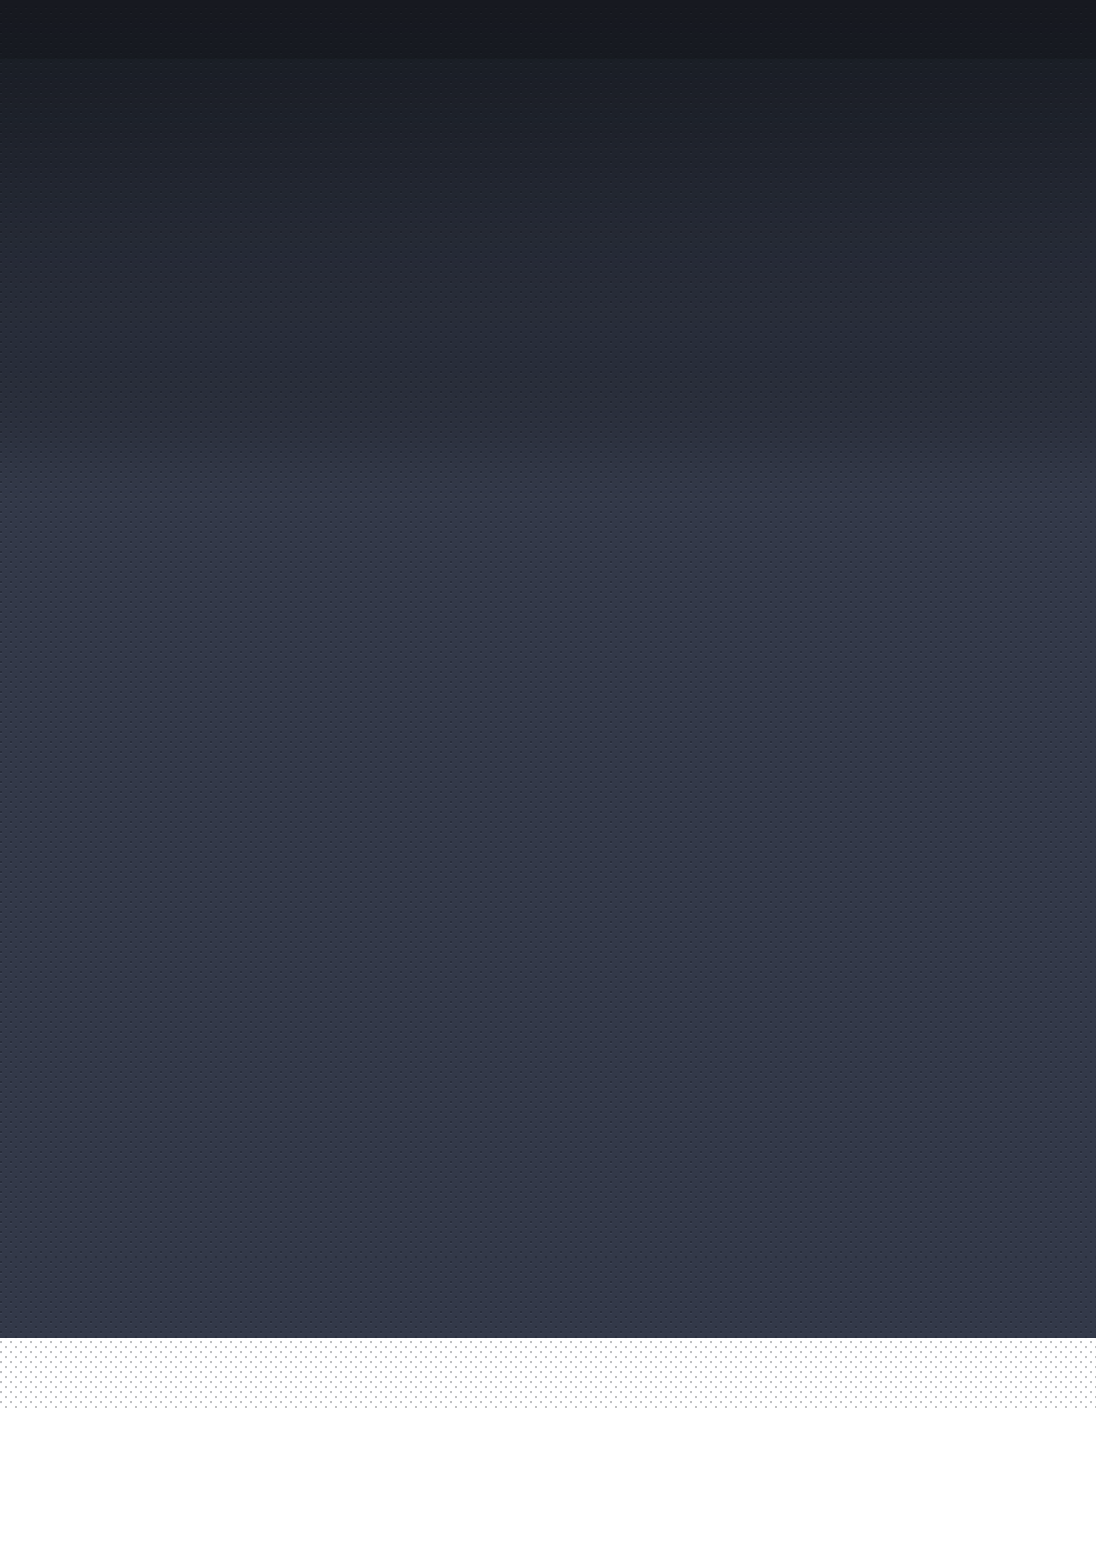
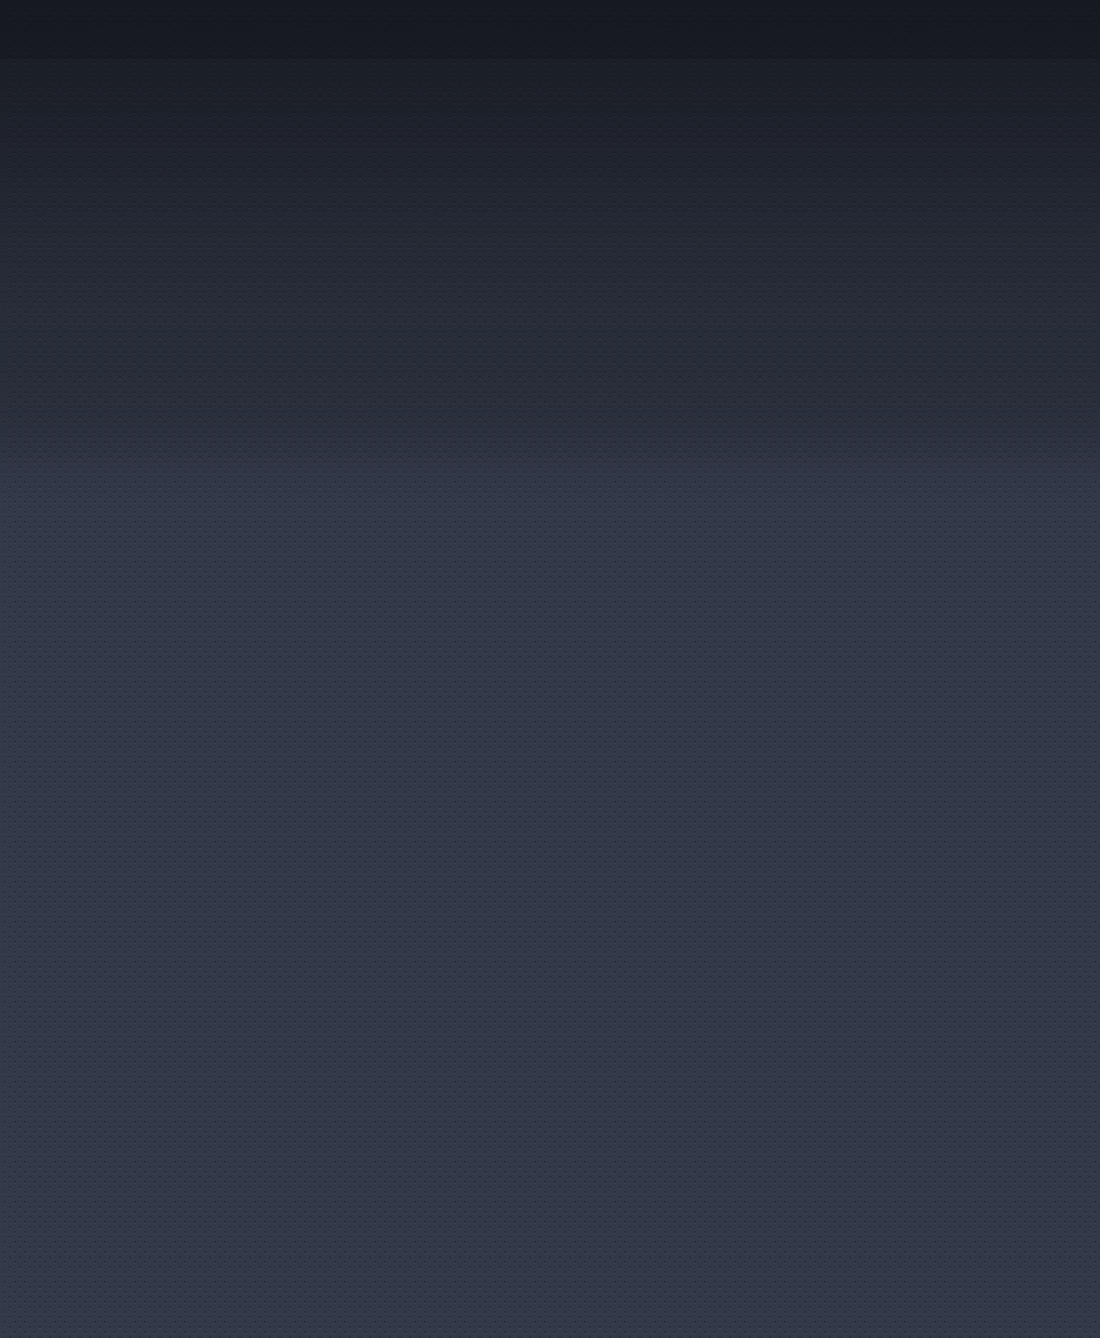
Fix Layout, Add Hover

Changed region(s): [[0.0, 0.858, 1.0, 1.0]]

diff --git a/css/about.css b/css/about.css
@@ -70,6 +70,9 @@ h2{
     display: inline-block;
     color: rgb(106, 135, 163);
 }
+.header-left a:hover{
+    color: #ffffff;
+}
 .span-top{
     margin: 0 4px;
 }
@@ -88,11 +91,11 @@ h2{
 }
 .social-network{
     float: left;
-    margin-right: 11px;
-    margin-top: 3px;
+    margin-right: 12px;
+    margin-top: 5px;
 }
 .list-social-network a{
-    margin-left: 5px;
+    margin-left: 6px;
 }
 .list-social-network li{
     display: inline-block;
@@ -113,7 +116,7 @@ h2{
     border: 1px solid #1f2223;
     color: #38444f;
     margin: 11px 0 11px;
-    padding: 0px 0px 5px 6px;
+    padding: 2px 0px 5px 6px;
 }
 input[type="search"]{
     font-size: 11px;
@@ -125,11 +128,17 @@ input::placeholder{
 .search-button{
     width: 25px;
     height: 24px;
-    background-image: url(/image/icon/Icon-Top/search-icon.png);
+    background: url(/image/icon/Icon-Top/search-icon.png) no-repeat;
     border: 0;
     position: relative;
-    top: 6px;
-    right: 35px;
+    top: 11px;
+    right: 32px;
+    cursor: pointer;
+}
+@media screen and (max-width: 768px){
+    .container{
+        width: 80%;
+    }
 }
 /* End Header Top */
 .header-navigation:before,
@@ -143,31 +152,62 @@ input::placeholder{
 .header-navigation{
     margin-bottom: 23px;
 }
-.logo{
-    float: left;
-    position: relative;
-    display: block;
-    text-indent: -99999px;
-    width: 272px;
-    height: 60px;
-    background: url(/image/Logo.png) no-repeat;
-    overflow: hidden;
-    margin-left: -3px;
+
+@media all and (min-width: 1000px){
+    .logo{
+        float: left;
+        position: relative;
+        display: block;
+        text-indent: -99999px;
+        width: 272px;
+        height: 60px;
+        background: url(/image/Logo.png) no-repeat;
+        overflow: hidden;
+        margin-left: -3px;
+    }
+    #menu{
+        float: right;
+    }
+    .menu-list li{ 
+        display: inline-block;
+        margin-left: 5px;
+    }
+    .menu-list a{
+        display: inline-block;
+        color: #707584;
+        font-size: 17px;
+        font-weight: bolder;
+        padding: 6px 14px 9px 13px;
+        letter-spacing: -1px;
+    }
 }
-#menu{
-    float: right;
-}
-.menu-list li{ 
-    display: inline-block;
-    margin-left: 5px;
-}
-.menu-list a{
-    display: inline-block;
-    color: #707584;
-    font-size: 17px;
-    font-weight: bolder;
-    padding: 6px 14px 9px 13px;
-    letter-spacing: -1px;
+@media screen and (max-width: 768px){
+    .logo{
+        float: none;
+        position: relative;
+        display: block;
+        text-indent: -99999px;
+        width: 272px;
+        height: 60px;
+        background: url(/image/Logo.png) no-repeat;
+        overflow: hidden;
+        margin: 0 auto;
+    }
+    #menu{
+        float: none;
+        text-align: center;
+    }
+    .menu-list li{  
+        display: inline-block;
+    }
+    .menu-list a{
+        display: inline-block;
+        color: #707584;
+        font-size: 17px;
+        font-weight: bolder;
+        padding: 6px 14px 9px 13px;
+        letter-spacing: -1px;
+    }
 }
 .menu-list a:hover{
     background: #161920b1;
@@ -194,10 +234,19 @@ input::placeholder{
 .main-inner{
     background: #ffffff;
 }
-.main-content{
-    width: 70.8%;
-    float: left;
-    padding: 0 21px 0 20px;
+
+@media all and (min-width: 1000px){
+    .main-content{
+        width: 70.8%;
+        float: left;
+        padding: 0 21px 0 20px;
+    }
+}
+@media screen and (max-width: 768px){
+    .main-content{
+        width: 100%;
+        padding: 0 21px 0 20px;
+    }
 }
 .title-heading{
     color: #4d5467;
@@ -228,10 +277,20 @@ input::placeholder{
 }
 /* End Main Contemt */
 /* Side-Bar */
-.side-bar{
-    width: 29.2%;
-    float: right;
-    background: #eef0f5;
+
+@media all and (min-width: 1000px){
+    .side-bar{
+        width: 29.2%;
+        float: right;
+        background: #eef0f5;
+    }
+}
+@media screen and (max-width: 768px){
+    .side-bar{
+        width: 100%;
+        float: none;
+        background: #eef0f5;
+    }
 }
 .side-bar h3{
     font-size: 20px;
@@ -275,18 +334,36 @@ input::placeholder{
     width: 100%;
     margin-bottom: 2px;
 }
-.navigation-list li a {
-    display: block;
-    color: #747c93;
-    text-decoration: none;
-    padding: 14px 0px 14px 13px;
-    background:#dce0e9 url(/image/icon/side/icon_arrow.png) no-repeat 225px 50%;
+
+@media all and (min-width: 1000px){
+    .navigation-list li a {
+        display: block;
+        color: #747c93;
+        text-decoration: none;
+        padding: 14px 0px 14px 13px;
+        background:#dce0e9 url(/image/icon/side/icon_arrow.png) no-repeat 225px 50%;
+    }
+    .navigation-list li a:hover{
+        color: #444d68;
+        background: #d0d4de url(/image/icon/side/icon_arrow_active.png) no-repeat 225px 50%;
+        width: 100%;
+    }
 }
-.navigation-list li a:hover{
-    color: #444d68;
-    background: #d0d4de url(/image/icon/side/icon_arrow_active.png) no-repeat 225px 50%;
-    width: 100%;
+@media screen and (max-width: 768px){
+    .navigation-list li a {
+        display: block;
+        color: #747c93;
+        text-decoration: none;
+        padding: 14px 0px 14px 13px;
+        background:#dce0e9 url(/image/icon/side/icon_arrow.png) no-repeat 680px 50%;
+    }
+    .navigation-list li a:hover{
+        color: #444d68;
+        background: #d0d4de url(/image/icon/side/icon_arrow_active.png) no-repeat 680px 50%;
+        width: 100%;
+    }
 }
+
 /* End Box Navigation */
 
 .categories-top{
@@ -301,9 +378,11 @@ input::placeholder{
 .categories-list li{
     width: 100%;
     padding-bottom: 10px;
+    display: inline-block;
 }
 .categories-list li a{
     color:#747c93;
+    display: inline-block;
 }
 .categories-list li a:hover{
     color: #97a5d1;
@@ -327,9 +406,11 @@ input::placeholder{
 .blog-list li{
     width: 100%;
     padding-bottom: 10px;
+    display: inline-block;
 }
 .blog-list li a{
     color:#747c93;
+    display: inline-block;
 }
 .blog-list li a:hover{
     color: #97a5d1;
@@ -477,6 +558,7 @@ input::placeholder{
     position: relative;
     top: 6px;
     left: 59px;
+    cursor: pointer;
 }
 .square{
     width: 0;
@@ -500,6 +582,9 @@ input::placeholder{
 }
 .update-top{
     padding-bottom: 12px;
+}
+.update-top a:hover{
+    text-decoration: underline solid #b8e2f6;
 }
 .dellustations,
 .twitter-contact a{
@@ -526,16 +611,30 @@ input::placeholder{
 .footer-copyright:after{
     clear: both;
 }
-.address{
-    float: left;
-    padding-top: 22px;
+@media all and (min-width: 1000px){
+    .address{
+        float: left;
+        padding-top: 22px;
+    }
+    .footer-bottom-right{
+        float: right;
+        padding-top: 22px;
+    }
+}
+@media screen and (max-width: 768px){
+    .address{
+        float: none;
+        padding-top: 22px;
+        text-align: center;
+    }
+    .footer-bottom-right{
+        float: none;
+        padding-top: 22px;
+        text-align: center;
+    }
 }
 .address p{
     margin: 0;
-}
-.footer-bottom-right{
-    float: right;
-    padding-top: 22px;
 }
 .footer-bottom-right ul{
     margin: 0;
@@ -552,4 +651,7 @@ input::placeholder{
 .footer-bottom-right a{
     color: #6a7796;
     display: inline-block;
+}
+.footer-bottom-right a:hover{
+    color: #ffffff;
 }

diff --git a/about.html b/about.html
@@ -32,8 +32,8 @@
                         </div>
                         <div class="search">
                             <form action="#" method="GET" class="form-header">
-                                <input type="text" placeholder="Search Keywords" class="search-field">
-                                <input type="submit" class="search-button" value="">
+                                <input type="text" placeholder="Search Keywords" class="search-field" />
+                                <input type="submit" class="search-button" value=""/>
                             </form>
                         </div>
                     </div>
